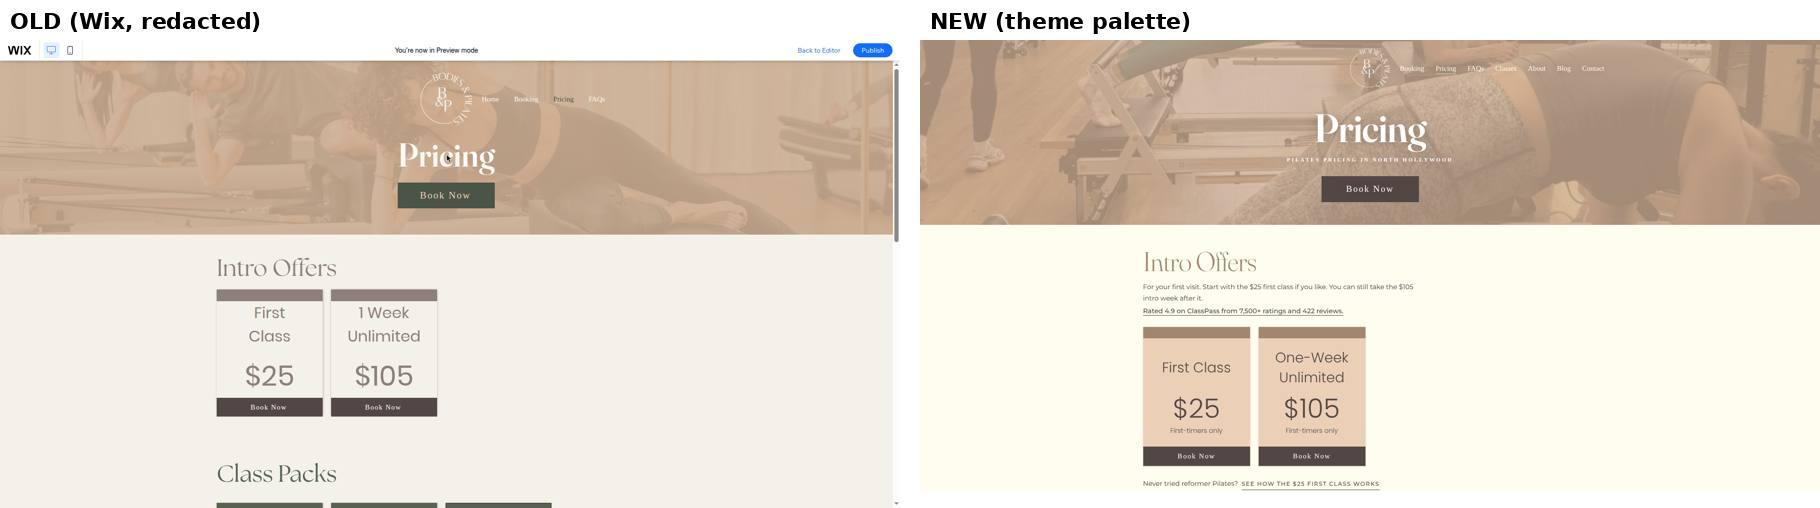
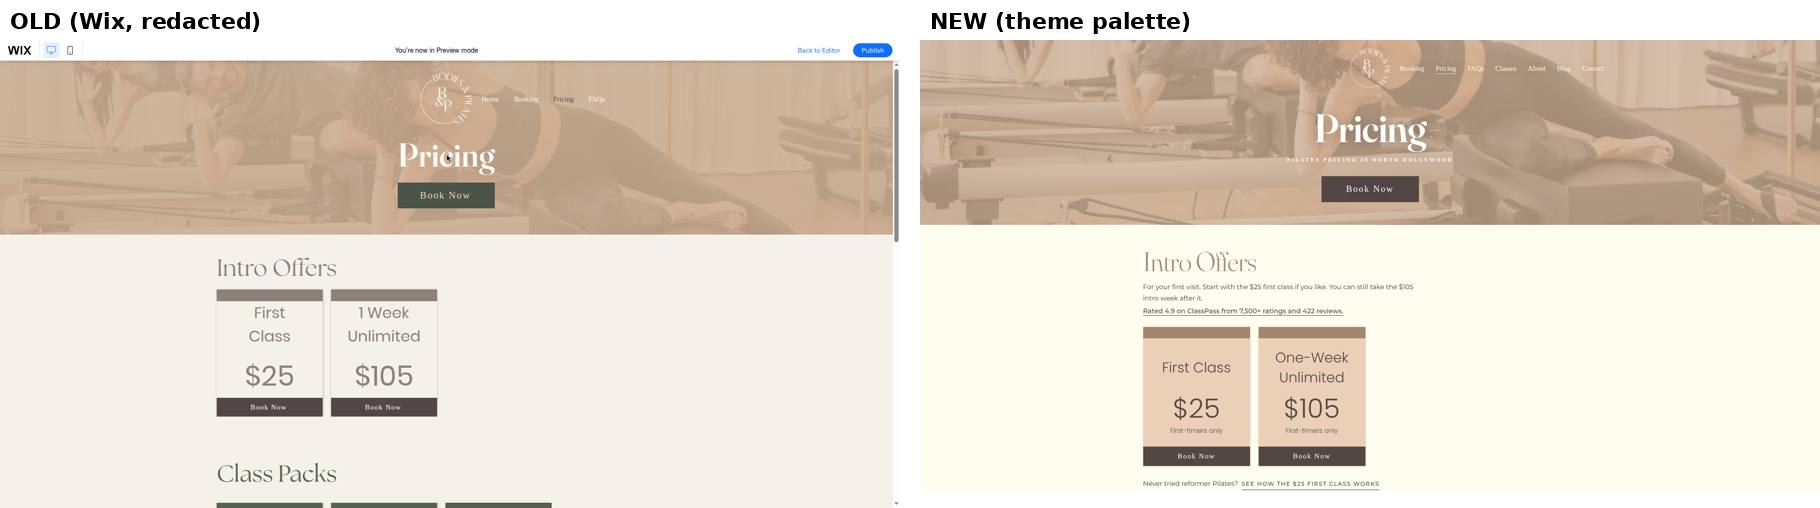
Use the old site's stock photos in their old slots
Owner decision: the four Wix stock images the old site used go back in
the slots where it used them. Every other photo stays a studio photo.

- Side-bend group photo: Home Beginner card and the Pricing, FAQs and
  Booking banners.
- Leg-straps group photo: Home Flexibility card.
- Lunge photo: Home Fullbody card.
- Standing yoga photo: Home reviews photo.

Files came from the owner's upload (the Wix CDN is blocked from the build
sandbox), processed like import_media.py: EXIF applied, metadata
stripped, longest side 2048, progressive JPEG q82. Listed in
media-sources.json under "09 Old site stock". The /classes cards and
class page banners keep their studio photos; Home passes its own photos
to ClassCards. Captures in design-reference/theme-2026-10-20 retaken.

Claude-Session: https://claude.ai/code/session_01YEyrxSbCo2CV9dPxHEzooV

Changed region(s): [[0.4923, 0.0591, 1.0, 0.4429], [0.4923, 0.3543, 0.5538, 0.4429]]

diff --git a/lib/media.ts b/lib/media.ts
@@ -6,7 +6,9 @@ import manifestJson from "./media-manifest.json";
  * Files are imported with `python3 scripts/import_media.py`, which writes
  * public/media/ and lib/media-manifest.json. An asset that is not in the
  * manifest resolves to null and its slot renders nothing: there are no
- * placeholders and no stock or AI imagery anywhere on the site.
+ * placeholders and no AI imagery anywhere on the site. The only stock images
+ * are the four the old Wix site used, kept by owner decision (October 21,
+ * 2026) in the old slots only (STOCK below).
  *
  * Filenames are final (they carry SEO value). Alt text describes what is in
  * the frame. Instructor photos follow "[Full Name], instructor at Bodies and
@@ -117,6 +119,20 @@ export const MEDIA = {
   sitaHeadshot: photo("instructor-headshot-black-tee.jpg", "Sita Acevedo, instructor at Bodies and Pilates in North Hollywood"),
   theresiaHeadshot: photo("instructor-headshot-black-cami.jpg", "Theresia Bunch, instructor at Bodies and Pilates in North Hollywood"),
   hannahHeadshot: photo("instructor-headshot-one-shoulder-top.jpg", "Hannah Pink, instructor at Bodies and Pilates in North Hollywood"),
+} as const;
+
+/**
+ * The old Wix site's stock photos (not of this studio), self-hosted. Owner
+ * decision, October 21, 2026: used only in the slots the old site used them,
+ * the Home class cards for Beginner, Flexibility and Fullbody, the Home
+ * reviews photo, and the Pricing, FAQs and Booking banners. Alt text
+ * describes the frame and does not present it as the studio.
+ */
+export const STOCK = {
+  groupSideBend: photo("stock-group-side-bend-on-reformers.jpg", "Group doing a side bend on Pilates reformers"),
+  groupLegStraps: photo("stock-group-leg-straps-on-reformers.jpg", "Group lying on Pilates reformers with their legs in the straps"),
+  lungeOnReformer: photo("stock-lunge-on-reformer.jpg", "Woman in a standing lunge on a Pilates reformer"),
+  yogaStandingPose: photo("stock-yoga-standing-pose.jpg", "Woman in a standing yoga pose with her arms outstretched"),
 } as const;
 
 /** Default Open Graph / social share image: 1200x630 crop of the home hero. */

diff --git a/app/page.tsx b/app/page.tsx
@@ -9,7 +9,7 @@ import { Testimonials } from "@/components/sections/testimonials";
 import { FaqTeaser } from "@/components/sections/faq-teaser";
 import { FirstTimerGuide } from "@/components/sections/first-timer-guide";
 import { pageMetadata } from "@/lib/metadata";
-import { MEDIA, present, type Media } from "@/lib/media";
+import { MEDIA, STOCK, present, type Media } from "@/lib/media";
 import { GROUP_CLASSES } from "@/lib/classes";
 import { TRY } from "@/lib/pricing";
 import { SERVICE_AREAS } from "@/lib/areas";
@@ -144,9 +144,9 @@ export default function HomePage() {
       <ClassCards
         headingId="class-types-heading"
         items={[
-          { key: "beginner", name: "Beginner", href: "/classes/beginner" },
-          { key: "flexibility", name: "Flexibility", href: "/classes/flexibility" },
-          { key: "fullbody", name: "Fullbody", href: "/classes/fullbody" },
+          { key: "beginner", name: "Beginner", href: "/classes/beginner", photo: STOCK.groupSideBend },
+          { key: "flexibility", name: "Flexibility", href: "/classes/flexibility", photo: STOCK.groupLegStraps },
+          { key: "fullbody", name: "Fullbody", href: "/classes/fullbody", photo: STOCK.lungeOnReformer },
         ]}
       />
 
@@ -170,7 +170,7 @@ export default function HomePage() {
       )}
 
       {/* 7. The Reviews: a photo beside the slideshow. */}
-      <Testimonials photo={MEDIA.nairaThird} />
+      <Testimonials photo={STOCK.yogaStandingPose} />
 
       {/* The rebuild's sections the old home page did not have, kept for first
           visits and search, set in the old site's pricing and section styles. */}

diff --git a/app/schedule/page.tsx b/app/schedule/page.tsx
@@ -4,7 +4,7 @@ import { MindbodyScheduleWidget } from "@/components/mindbody/schedule-widget";
 import { pageMetadata } from "@/lib/metadata";
 import { breadcrumbSchema, jsonLd } from "@/lib/schema";
 import { MINDBODY, PHONE, GRIP_SOCKS_LINE } from "@/lib/site";
-import { MEDIA } from "@/lib/media";
+import { STOCK } from "@/lib/media";
 
 export const metadata = pageMetadata({
   title: "Reformer Pilates Schedule, North Hollywood | Bodies and Pilates",
@@ -25,7 +25,7 @@ export default function SchedulePage() {
     <>
       <script type="application/ld+json" dangerouslySetInnerHTML={{ __html: jsonLd(breadcrumb) }} />
 
-      <PageHero display="Book Your Session" title="Class Schedule" banner={MEDIA.classKneelingLegPress} focus="object-[50%_55%]" />
+      <PageHero display="Book Your Session" title="Class Schedule" banner={STOCK.groupSideBend} focus="object-[50%_55%]" />
 
       {/* booking-1-top.png: the timetable on a rounded off-white card that starts
           right under the tan banner, on the theme dark brown band. */}

diff --git a/app/faq/page.tsx b/app/faq/page.tsx
@@ -3,7 +3,7 @@ import { FaqAccordion } from "@/components/sections/faq-accordion";
 import { pageMetadata } from "@/lib/metadata";
 import { breadcrumbSchema, jsonLd } from "@/lib/schema";
 import { FAQS, faqPageSchema } from "@/lib/faqs";
-import { MEDIA } from "@/lib/media";
+import { STOCK } from "@/lib/media";
 
 export const metadata = pageMetadata({
   title: "Pilates FAQs | Bodies and Pilates North Hollywood",
@@ -23,7 +23,7 @@ export default function FaqPage() {
       <script type="application/ld+json" dangerouslySetInnerHTML={{ __html: jsonLd(faqPageSchema()) }} />
       <script type="application/ld+json" dangerouslySetInnerHTML={{ __html: jsonLd(breadcrumb) }} />
 
-      <PageHero display="FAQs" title="Pilates Questions, Answered" banner={MEDIA.studioEmptyRoom} tone="dark" />
+      <PageHero display="FAQs" title="Pilates Questions, Answered" banner={STOCK.groupSideBend} tone="dark" />
 
       {/* faqs-top.png: the dark accordion straight under the banner, then the
           dark footer, as on the old page. */}

diff --git a/components/sections/class-media.tsx b/components/sections/class-media.tsx
@@ -95,7 +95,8 @@ export function ClassCards({
   intro = "We offer classes for all fitness levels and private sessions can be tailored to meet your individual needs.",
   headingLevel = "h2",
 }: {
-  items: { key: string; name: string; href: string }[];
+  /** `photo` overrides the class photo (the Home cards use the old site's stock photos). */
+  items: { key: string; name: string; href: string; photo?: PhotoMedia | null }[];
   headingId: string;
   title?: string;
   intro?: string;
@@ -112,7 +113,7 @@ export function ClassCards({
         <p className="mx-auto mt-3 max-w-3xl font-serif text-2xl font-light leading-snug text-white">{intro}</p>
         <ul className={cn("mt-8 grid gap-[5px]", items.length === 3 ? "sm:grid-cols-3" : "grid-cols-2 lg:grid-cols-4")}>
           {items.map((c) => {
-            const photo = CLASS_CARD_PHOTO[c.key];
+            const photo = c.photo !== undefined ? c.photo : CLASS_CARD_PHOTO[c.key];
             return (
               <li key={c.key}>
                 <a

diff --git a/app/pricing/page.tsx b/app/pricing/page.tsx
@@ -7,7 +7,7 @@ import { pageMetadata } from "@/lib/metadata";
 import { breadcrumbSchema, jsonLd } from "@/lib/schema";
 import { COMMIT, FLEX, POLICY, PRICE_GROUPS, PRIVATE, TRY } from "@/lib/pricing";
 import { CLASSPASS_RATING_LINE, CLASSPASS_URL, SITE_URL } from "@/lib/site";
-import { MEDIA } from "@/lib/media";
+import { STOCK } from "@/lib/media";
 
 export const metadata = pageMetadata({
   title: "Reformer Pilates Prices, North Hollywood | Bodies and Pilates",
@@ -74,7 +74,7 @@ export default function PricingPage() {
       <PageHero
         display="Pricing"
         title="Pilates Pricing in North Hollywood"
-        banner={MEDIA.classPlankRow}
+        banner={STOCK.groupSideBend}
         focus="object-[50%_62%]"
         action={
           <CtaLink href="/schedule" className="min-w-[206px] px-10 text-[19px]">

diff --git a/design-reference/theme-2026-10-20/README.md b/design-reference/theme-2026-10-20/README.md
@@ -14,3 +14,8 @@ The old Wix site's theme palette and fonts, read from the Wix editor on
 
 No image here contains the old footer's phone number: every old capture
 comes from the redacted set in `../old-site`.
+
+Updated 2026-10-21 (owner decisions): the Home Beginner, Flexibility and
+Fullbody cards, the Home reviews photo, and the Pricing, FAQs and Booking
+banners now use the old site's Wix stock photos (`public/media/photos/stock-*.jpg`).
+The Home, Pricing, FAQs and Booking pairs and captures were retaken.
